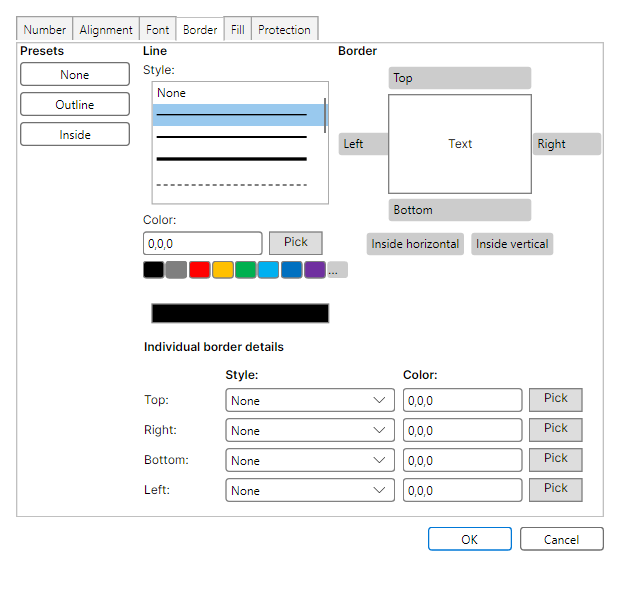
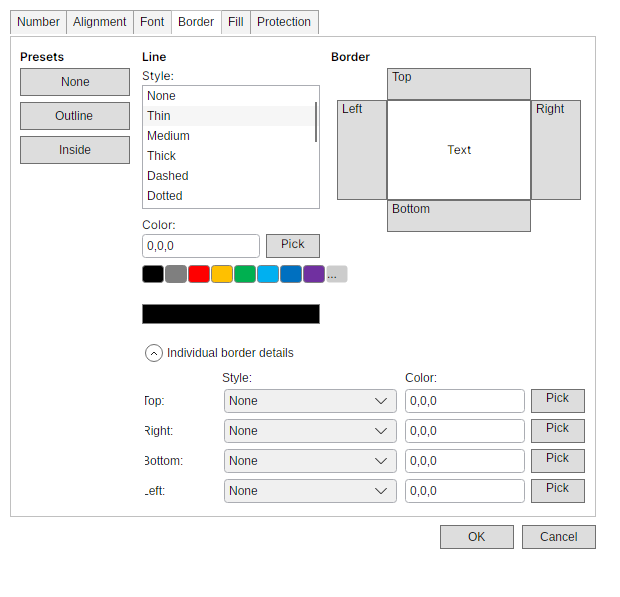
Record Wave109 Avalonia parity progress

diff --git a/freep/FreeP.Core.IO/PptxPackageReader.cs b/freep/FreeP.Core.IO/PptxPackageReader.cs
@@ -2883,7 +2883,7 @@ public static class PptxPackageReader
 
         return family switch
         {
-            SmartArtFamily.Process => layoutId is "process1" or "basicprocess" or "accentprocess" or "ascendingprocess" or "descendingprocess" or "basictimeline" or "phasedprocess" or "circleaccenttimeline" or "stepdownprocess" or "continuousblockprocess" or "segmentedprocess" or "chevronprocess" or "basicchevronprocess" or "closedchevronprocess" or "bendingprocess" or "alternatingprocess" or "arrowribbon" or "circleprocess" or "circlearrowprocess" or "increasingcircleprocess" or "funnelprocess" or "verticalprocess" or "pictureaccentprocess",
+            SmartArtFamily.Process => layoutId is "process1" or "basicprocess" or "accentprocess" or "ascendingprocess" or "descendingprocess" or "basictimeline" or "phasedprocess" or "circleaccenttimeline" or "stepdownprocess" or "continuousblockprocess" or "segmentedprocess" or "chevronprocess" or "basicchevronprocess" or "closedchevronprocess" or "bendingprocess" or "alternatingprocess" or "arrowribbon" or "circleprocess" or "circlearrowprocess" or "funnelprocess" or "verticalprocess" or "pictureaccentprocess",
             SmartArtFamily.List => layoutId is "list1" or "list2" or "basicblocklist" or "verticalboxlist" or "verticalblocklist" or "verticalchevronlist" or "verticalarrowlist" or "stackedlist" or "descendingblocklist" or "basicpyramid" or "pyramidlist" or "invertedpyramid" or "horizontalbulletlist" or "horizontalblocklist" or "trapezoidlist" or "picturecaptionlist" or "pictureaccentlist" or "picturestack" or "picturelineup" or "picturestrips" or "continuouspicturelist" or "picturegrid",
             SmartArtFamily.Cycle => layoutId is "cycle1" or "cycle2" or "radial1" or "basiccycle" or "multidirectionalcycle" or "radialcycle" or "radialcluster" or "radiallist" or "gearcycle" or "textcycle" or "blockcycle" or "nondirectionalcycle" or "continuouscycle",
             SmartArtFamily.Hierarchy => layoutId is "hierarchy1" or "hierarchy3" or "basichierarchy" or "horizontalhierarchy" or "labeledhierarchy" or "tablehierarchy" or "verticalbulletlist" or "orgchart" or "nameandtitleorgchart",

diff --git a/freep/FreeP.App.Presentation.Tests/PptxRepairCorpusValidityTests.cs b/freep/FreeP.App.Presentation.Tests/PptxRepairCorpusValidityTests.cs
@@ -254,6 +254,13 @@ public sealed class PptxRepairCorpusValidityTests
     {
         var deckPath = Path.Combine(FindCorpusDirectory(), "14-smartart-live.pptx");
         var presentation = PptxPackageReader.Read(deckPath);
+        var increasingCircleProcess = presentation.Slides[0].Shapes
+            .Single(shape => shape.Kind == SlideShapeKind.SmartArt)
+            .SmartArt!;
+
+        increasingCircleProcess.Data!.IsLiveLayoutSupported.Should().BeFalse(
+            "the imported PowerPoint cache contains background-role geometry the bounded live authoring layout does not yet model");
+        increasingCircleProcess.FallbackShapes.Should().NotBeEmpty();
 
         var shapes = SlideCompositor.Compose(presentation, presentation.Slides[0])
             .OfType<DrawOp.Shape>()

diff --git a/docs/parity/avalonia-wpf-cross-app-dashboard.md b/docs/parity/avalonia-wpf-cross-app-dashboard.md
@@ -8,9 +8,9 @@ Generated by `tools/Generate-CrossAppParityDashboard.ps1` from existing generate
 
 | App | Primary evidence | Current generated state | Next slice |
 |---|---|---|---|
-| FreeX | Functional matrix, classifier, dialog inventory, dialog visual evidence, command surface | 546 functional commands; 540 command inventory parity; 0 Avalonia-missing; 0 real classified binding gaps; 0 catalog-backed pseudo-gallery rows (0 conditional-format, 0 font/border, 0 accounting-symbol); 57/57 dialog routes captured on WPF and Avalonia; 94 paired screenshot surface ids, 0 Avalonia-only ids, 0 WPF-only ids; 0 scale-aware dimension mismatches; 0 unresolved high-delta visual review candidates at triage score >= 0.4 (highest 0.098981); 27 raw PNG pixel dimension mismatches, of which 27 normalize by capture DPI. These are coverage/triage metrics, not a visual-parity claim. | Command/dialog route coverage is complete for the generated inputs: all 0 pseudo-gallery rows are catalog-backed in classifier evidence (0 conditional-format rows over 38 runtime catalog items, 0 font/border rows, and 0 accounting-symbol rows), and dialog screenshot evidence has 94 paired WPF/Avalonia manifest surface ids with 0 Avalonia-only ids. This is coverage and size-comparability evidence, not visual parity. The paired screenshots retain 0 unresolved high-delta visual review candidates at triage score >= 0.4 (highest 0.098981); keep those candidates separate from 0 scale-aware dimension mismatch rows and 27 raw PNG pixel dimension mismatches. |
+| FreeX | Functional matrix, classifier, dialog inventory, dialog visual evidence, command surface | 546 functional commands; 540 command inventory parity; 0 Avalonia-missing; 0 real classified binding gaps; 0 catalog-backed pseudo-gallery rows (0 conditional-format, 0 font/border, 0 accounting-symbol); 57/57 dialog routes captured on WPF and Avalonia; 94 paired screenshot surface ids, 0 Avalonia-only ids, 0 WPF-only ids; 0 scale-aware dimension mismatches; 0 unresolved high-delta visual review candidates at triage score >= 0.4 (highest 0.09887); 27 raw PNG pixel dimension mismatches, of which 27 normalize by capture DPI. These are coverage/triage metrics, not a visual-parity claim. | Command/dialog route coverage is complete for the generated inputs: all 0 pseudo-gallery rows are catalog-backed in classifier evidence (0 conditional-format rows over 38 runtime catalog items, 0 font/border rows, and 0 accounting-symbol rows), and dialog screenshot evidence has 94 paired WPF/Avalonia manifest surface ids with 0 Avalonia-only ids. This is coverage and size-comparability evidence, not visual parity. The paired screenshots retain 0 unresolved high-delta visual review candidates at triage score >= 0.4 (highest 0.09887); keep those candidates separate from 0 scale-aware dimension mismatch rows and 27 raw PNG pixel dimension mismatches. |
 | FreeW | Generated command inventory plus dialog rendered evidence | 940 commands; 490 shared-profile; 0 actionable WPF-missing; 0 actionable Avalonia-missing; 402 profile-shape-only; 43 command-id aliases; 5 platform-only; 0 deferred; 283 rendered comparison rows | Backstage print/export, WordArt/watermark, table/page-composition, shape/object, SmartArt polygon, and chart visual proof now have paired WPF/Avalonia renderer contracts plus no-Word real-capture smoke runs; chart proof also validates shared chart data signatures across hosts. All-up no-Word runner fallback drift is classified as runner evidence hygiene, and the standalone no-Word runner now writes a post-summary readiness manifest with comparable scenario IDs, candidate Word PNG baseline paths, remaining blocker IDs, and an explicit no-authoritative-Word-PNG-parity claim. Next FreeW evidence slices are the same runs with real Word PNG baselines on a Word-capable host and broader Word-authoritative drawing/object/chart/table comparisons. |
-| FreeP | Generated command inventory plus dialog/whole-window rendered evidence | 622 commands; 622 shared-profile; 0 actionable WPF-missing; 0 actionable Avalonia-missing; 0 platform-only; 103 workflow evidence rows; 61 paired rendered scenarios | Layout picker, table picker, rich inline table/text editing, shared visible list galleries, picture-bullet import/rendering plus picker/media authoring, slide-pane reorder, bottom New Slide, notes-page preview/PDF rendering, fixed-layout PDF connector, image, triangle-arrowhead, rotation, ellipse, picture-frame/crop/alpha/color-effect, shape-opacity export, and PDF visual-baseline readiness with WPF/Avalonia page-raster artifact patterns plus paired diff-report targets, export/backstage package-handoff, presenter recording backend contracts plus capture-adapter readiness and paired backend injection, captured PPTX media and generated WebVTT caption artifact authoring, focused PowerPoint-native caption package retention including external caption relationship metadata, native media/caption sidecar package depth, and caption relationship-id collision remapping, shared chart number/date label rendering plus edge/mixed manual-layout bounds, surface grid plus projected contour/wireframe/3-D surface geometry plus 3-D pie lower-depth rendering, stock OHLC capture-readiness metadata, and PowerPoint/WPF/Avalonia chart baseline capture readiness, SmartArt basic hierarchy plus vertical bullet list plus basic cycle plus radial cycle plus gear cycle plus text cycle plus basic, continuous block, segmented, chevron, alternating, funnel, circle, and arrow-ribbon process plus basic block list plus vertical box list plus stacked list plus basic pyramid plus bounded pictureCaptionList live layout plus basic/radial/stacked Venn and target-list relationship layouts plus shared outline reorder/promote/demote editing, data-part authoring, text-pane/cache-regeneration authoring, and matching thin WPF/Avalonia text-pane host controls with bounded keyboard routes, header/footer placeholder creation plus inherited layout/master geometry, title-slide suppression, fixed/auto date options, shared OMML fraction-type variants, matrix spacing/base alignment, delimiter grow semantics, accent/bar render-plan coverage, manual line breaks, boxed equation-array alignment points, transparent phantom spacing classes, pre-sub/superscript layout, matrix empty-cell placeholder handling, and group-character vertical justification, ink execution with repeated custom-show route retention, modern comments/review with shared mention candidate and insertion planning, accessibility/proofing workflow depth, animation-pane row/playback workflow evidence, paired real Windows microphone narration handoff, paired Windows camera handoff readiness, paired default no-COM camera handoff/package-target readiness without encoded-payload or PowerPoint-baseline claims, deterministic encoded camera media payload artifacts through host-specific PPTX package paths, and paired OS-backed unavailable-hardware/no-device recording evidence now have WPF/Avalonia no-COM evidence paths. Continue workflow-depth slices in live capture on real microphone/camera hardware, actual local default no-COM camera video encoding that produces non-empty mp4 payloads, calibrated chart-family acceptance thresholds and remaining type-specific decisions beyond the current PowerPoint baseline-depth/type/label captures, broader SmartArt layout families, remaining OMML constructs/alignment semantics and PowerPoint-authoritative math visual-baseline coverage, broader real-deck PowerPoint-native media/caption baselines, actual PowerPoint PDF/PNG capture and calibrated PDF visual diffs on a COM-capable host, and PowerPoint-authoritative animation-pane visual/playback baselines. |
+| FreeP | Generated command inventory plus dialog/whole-window rendered evidence | 624 commands; 624 shared-profile; 0 actionable WPF-missing; 0 actionable Avalonia-missing; 0 platform-only; 103 workflow evidence rows; 61 paired rendered scenarios | Layout picker, table picker, rich inline table/text editing, shared visible list galleries, picture-bullet import/rendering plus picker/media authoring, slide-pane reorder, bottom New Slide, notes-page preview/PDF rendering, fixed-layout PDF connector, image, triangle-arrowhead, rotation, ellipse, picture-frame/crop/alpha/color-effect, shape-opacity export, and PDF visual-baseline readiness with WPF/Avalonia page-raster artifact patterns plus paired diff-report targets, export/backstage package-handoff, presenter recording backend contracts plus capture-adapter readiness and paired backend injection, captured PPTX media and generated WebVTT caption artifact authoring, focused PowerPoint-native caption package retention including external caption relationship metadata, native media/caption sidecar package depth, and caption relationship-id collision remapping, shared chart number/date label rendering plus edge/mixed manual-layout bounds, surface grid plus projected contour/wireframe/3-D surface geometry plus 3-D pie lower-depth rendering, stock OHLC capture-readiness metadata, and PowerPoint/WPF/Avalonia chart baseline capture readiness, SmartArt basic hierarchy plus vertical bullet list plus basic cycle plus radial cycle plus gear cycle plus text cycle plus basic, continuous block, segmented, chevron, alternating, funnel, circle, and arrow-ribbon process plus basic block list plus vertical box list plus stacked list plus basic pyramid plus bounded pictureCaptionList live layout plus basic/radial/stacked Venn and target-list relationship layouts plus shared outline reorder/promote/demote editing, data-part authoring, text-pane/cache-regeneration authoring, and matching thin WPF/Avalonia text-pane host controls with bounded keyboard routes, header/footer placeholder creation plus inherited layout/master geometry, title-slide suppression, fixed/auto date options, shared OMML fraction-type variants, matrix spacing/base alignment, delimiter grow semantics, accent/bar render-plan coverage, manual line breaks, boxed equation-array alignment points, transparent phantom spacing classes, pre-sub/superscript layout, matrix empty-cell placeholder handling, and group-character vertical justification, ink execution with repeated custom-show route retention, modern comments/review with shared mention candidate and insertion planning, accessibility/proofing workflow depth, animation-pane row/playback workflow evidence, paired real Windows microphone narration handoff, paired Windows camera handoff readiness, paired default no-COM camera handoff/package-target readiness without encoded-payload or PowerPoint-baseline claims, deterministic encoded camera media payload artifacts through host-specific PPTX package paths, and paired OS-backed unavailable-hardware/no-device recording evidence now have WPF/Avalonia no-COM evidence paths. Continue workflow-depth slices in live capture on real microphone/camera hardware, actual local default no-COM camera video encoding that produces non-empty mp4 payloads, calibrated chart-family acceptance thresholds and remaining type-specific decisions beyond the current PowerPoint baseline-depth/type/label captures, broader SmartArt layout families, remaining OMML constructs/alignment semantics and PowerPoint-authoritative math visual-baseline coverage, broader real-deck PowerPoint-native media/caption baselines, actual PowerPoint PDF/PNG capture and calibrated PDF visual diffs on a COM-capable host, and PowerPoint-authoritative animation-pane visual/playback baselines. |
 
 ## Rendered Evidence Summary
 

diff --git a/docs/parity/dialog-visual-evidence-summary.md b/docs/parity/dialog-visual-evidence-summary.md
@@ -62,7 +62,6 @@ Outliers are ranked by a deterministic triage score: normalized 32x32 ARGB sampl
 
 | Surface id | WPF logical size | Avalonia logical size | Raw PNG sizes | Bucket | Evidence flag | Score | Sample delta | Luma delta | Non-bg delta |
 | --- | ---: | ---: | --- | --- | --- | ---: | ---: | ---: | ---: |
-| dialog.FormatCells.Border | 620x597 | 620x597 | 620x597 px @ 96 DPI vs 620x597 px @ 96 DPI |  |  | 0.099 | 0.036 | 0.003 | 0.060 |
 | dialog.AccessibilityChecker | 360x520 | 360x520 | 360x520 px @ 96 DPI vs 360x520 px @ 96 DPI |  |  | 0.099 | 0.040 | 0.023 | 0.036 |
 | dialog.Options.View | 744x521 | 744x521 | 744x521 px @ 96 DPI vs 744x521 px @ 96 DPI |  |  | 0.099 | 0.016 | 0.006 | 0.076 |
 | dialog.Options.EaseOfAccess | 744x521 | 744x521 | 744x521 px @ 96 DPI vs 744x521 px @ 96 DPI |  |  | 0.098 | 0.015 | 0.008 | 0.075 |
@@ -72,6 +71,7 @@ Outliers are ranked by a deterministic triage score: normalized 32x32 ARGB sampl
 | dialog.InsertHyperlink | 560x300 | 560x300 | 840x450 px @ 144 DPI vs 560x300 px @ 96 DPI |  |  | 0.095 | 0.046 | 0.008 | 0.041 |
 | dialog.Options.Formulas | 744x777 | 744x777 | 744x777 px @ 96 DPI vs 744x777 px @ 96 DPI |  |  | 0.093 | 0.033 | 0.006 | 0.054 |
 | dialog.Zoom | 300x240 | 300x240 | 450x360 px @ 144 DPI vs 300x240 px @ 96 DPI |  |  | 0.093 | 0.034 | 0.015 | 0.045 |
+| dialog.PageSetup | 600x560 | 600x560 | 600x560 px @ 96 DPI vs 600x560 px @ 96 DPI |  |  | 0.091 | 0.025 | 0.007 | 0.059 |
 
 ## Scale-Aware Dimension Mismatch Details
 
@@ -112,7 +112,7 @@ These rows have a DPI-normalized checked-in PNG size that disagrees with the dia
 | dialog.ForecastSheet | dialog.ForecastSheet.png | 320x150 | 480x225 px @ 144 DPI | True | dialog.ForecastSheet.png | 320x150 | 320x150 px @ 96 DPI | True | True | 0.057 |
 | dialog.FormatCells | dialog.FormatCells.png | 620x540 | 620x540 px @ 96 DPI | True | dialog.FormatCells.png | 620x540 | 620x540 px @ 96 DPI | True | True | 0.029 |
 | dialog.FormatCells.Alignment | dialog.FormatCells.Alignment.png | 620x540 | 620x540 px @ 96 DPI | True | dialog.FormatCells.Alignment.png | 620x540 | 620x540 px @ 96 DPI | True | True | 0.090 |
-| dialog.FormatCells.Border | dialog.FormatCells.Border.png | 620x597 | 620x597 px @ 96 DPI | True | dialog.FormatCells.Border.png | 620x597 | 620x597 px @ 96 DPI | True | True | 0.099 |
+| dialog.FormatCells.Border | dialog.FormatCells.Border.png | 620x597 | 620x597 px @ 96 DPI | True | dialog.FormatCells.Border.png | 620x597 | 620x597 px @ 96 DPI | True | True | 0.033 |
 | dialog.FormatCells.Fill | dialog.FormatCells.Fill.png | 620x540 | 620x540 px @ 96 DPI | True | dialog.FormatCells.Fill.png | 620x540 | 620x540 px @ 96 DPI | True | True | 0.046 |
 | dialog.FormatCells.Font | dialog.FormatCells.Font.png | 620x540 | 620x540 px @ 96 DPI | True | dialog.FormatCells.Font.png | 620x540 | 620x540 px @ 96 DPI | True | True | 0.059 |
 | dialog.FormatCells.Number | dialog.FormatCells.Number.png | 620x540 | 620x540 px @ 96 DPI | True | dialog.FormatCells.Number.png | 620x540 | 620x540 px @ 96 DPI | True | True | 0.029 |

diff --git a/docs/parity/avalonia-parity-wave109-integration-20260802.md b/docs/parity/avalonia-parity-wave109-integration-20260802.md
@@ -1,0 +1,31 @@
+# Avalonia Parity Wave109 Integration
+
+Date: 2026-08-02
+
+## Delivered
+
+- FreeX Format Cells Border now resizes its actual X11 client instead of padding an undersized capture. Its layout follows the WPF control geometry for presets, line styles, preview, per-edge details, and actions. Fresh Linux evidence reduced triage from `0.098981` to `0.032791`.
+- FreeW Style dialog now shares the WPF layout metrics for combo fields, checkbox rows, and action buttons. The three paired states fell from roughly 7.7%-7.9% changed pixels to 3.8%-3.9%.
+- FreeP adds the `increasingCircleProcess` SmartArt family through shared authoring, insertion, layout, localization, and ribbon contracts consumed by both hosts. Imported PowerPoint decks retain their authoritative cached drawing until the live layout also models PowerPoint's background-role geometry.
+
+## Generated Evidence
+
+- FreeX: 94/94 paired surfaces, zero missing or blank captures, zero scale-aware dimension mismatches, and exact `620x597` Format Cells Border evidence. The highest remaining triage score is `0.098870` for `dialog.AccessibilityChecker`.
+- FreeW: 183 paired rendered rows, with 20 passes and 163 genuine visual mismatches. Word-authoritative PNG baselines remain unavailable in the current inputs.
+- FreeP: 624/624 shared-profile commands with zero actionable host gaps. Dialog/pane evidence remains 28/28 pass and whole-window evidence remains 33/33 paired with zero explicit product mismatches.
+
+## Verification
+
+- Focused FreeX Format Cells coverage: 29/29 passed.
+- Linux production capture: complete `620x597` Format Cells Border client with Top, Right, Bottom, Left, OK, and Cancel visible and no padded rows.
+- Focused FreeW Style coverage: 11/11 passed across Avalonia and shared presentation tests.
+- Focused FreeP SmartArt/ribbon coverage: 944/944 passed across presentation, WPF host, Avalonia host, and ribbon-profile suites.
+- The first default-lane run caught one imported SmartArt cache-boundary regression. After repair, FreeP presentation passed 3,389/3,389, WPF host passed 1,920/1,920, and Avalonia host passed 557/557; the unchanged FreeX Avalonia project had already passed 1,952/1,952 in the first run.
+- Full Release solution build passed with zero warnings and zero errors before and after the regression repair.
+- Repository preflight passed after refreshing the generated FreeP whole-window manifest.
+
+## Remaining
+
+- FreeX next visual slice: `dialog.AccessibilityChecker`.
+- FreeW retains 163 genuine local WPF/Avalonia visual mismatches and still needs Word-authoritative PNG baselines on a Word-capable host.
+- FreeP still needs broader PowerPoint-authoritative SmartArt XML, theme/effect geometry, and real-deck/media/math evidence.

diff --git a/docs/parity/freex-format-cells-border-wave109-20260802.md b/docs/parity/freex-format-cells-border-wave109-20260802.md
@@ -25,6 +25,6 @@ dotnet test tests\FreeX.App.Avalonia.Tests\FreeX.App.Avalonia.Tests.csproj --no-
 
 Result: 29 passed, 0 failed, 0 skipped. This includes the expanded WPF-style expander structure check, absence of visible inside buttons, a capture invariant rejecting the observed `620x540` stale layout, and a rendered-bounds regression proving Top, Right, Bottom, Left, OK, and Cancel are fully visible in the authoritative `620x597` client.
 
-The last paired evidence score before this change was triage `0.098981` (`sampleMeanDelta 0.036424`, `nonBackgroundDelta 0.059710`). A fresh WPF/Avalonia pixel recapture was not run in this worker because Docker capture is parent-owned and explicitly serialized; the next parent capture should record the after score.
+The parent-owned production Linux Docker/Xvfb recapture produced a complete `620x597` bitmap and reduced triage from `0.098981` to `0.032791` (`sampleMeanDelta 0.026232`, `nonBackgroundDelta 0.003493`). The capture has exact paired pixel dimensions, contains all four edge rows and both action buttons, and has no padded black rows. This is a 66.9% reduction in the triage score.
 
-The production regression had a `620x540` client padded into a `620x597` bitmap. The corrected production resize requests a `620x596.5` client, which captures to `620x597`, while the capture invariant prevents undersized native bounds from being hidden. Residual risk is limited to X11 confirmation in the parent-owned Docker recapture, platform text rasterization, and the final pixel score.
+The production regression had a `620x540` client padded into a `620x597` bitmap. The corrected production resize requests a `620x596.5` client, which captures to `620x597`, while the capture invariant prevents undersized native bounds from being hidden. The remaining delta is native control and text rasterization rather than missing or clipped content.

diff --git a/docs/parity/freep-smartart-increasing-circle-process-wave109-20260802.md b/docs/parity/freep-smartart-increasing-circle-process-wave109-20260802.md
@@ -4,7 +4,7 @@ Wave109 adds the previously unsupported common PowerPoint SmartArt layout family
 
 ## Shared implementation
 
-- `SmartArtLayoutPreset.IncreasingCircleProcess` is carried through authoring, insertion, native layout identity, and the PPTX reader live-layout allow-list.
+- `SmartArtLayoutPreset.IncreasingCircleProcess` is carried through authoring, insertion, and native layout identity. Imported PowerPoint decks retain their cached drawing until the bounded live layout models PowerPoint's background-role geometry.
 - `SmartArtLayoutEngine` emits editable ellipse nodes with increasing diameters on a shared baseline and straight connectors between adjacent nodes.
 - The renderer-neutral `SlideShape` output is consumed by both WPF and Avalonia through the existing shared compositor path.
 - The shared ribbon definition exposes the layout in the SmartArt design group, with routes registered in both `FreeP.App.Host` and `FreeP.App.Avalonia`.
@@ -16,6 +16,7 @@ Wave109 adds the previously unsupported common PowerPoint SmartArt layout family
 - Host focused tests: 440 passed.
 - Ribbon definition profile tests: 23 passed.
 - Avalonia extended SmartArt registration test: 1 passed.
+- The all-up default lane caught and now guards the imported-deck cache boundary: the PowerPoint corpus keeps its neutral background ellipses instead of replacing them with the approximate authoring layout.
 - No Docker commands were run.
 
 ## PowerPoint-authoritative residuals
